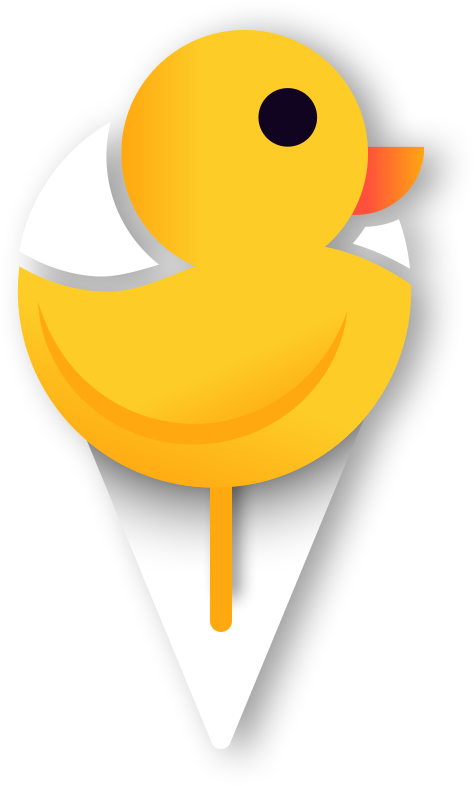
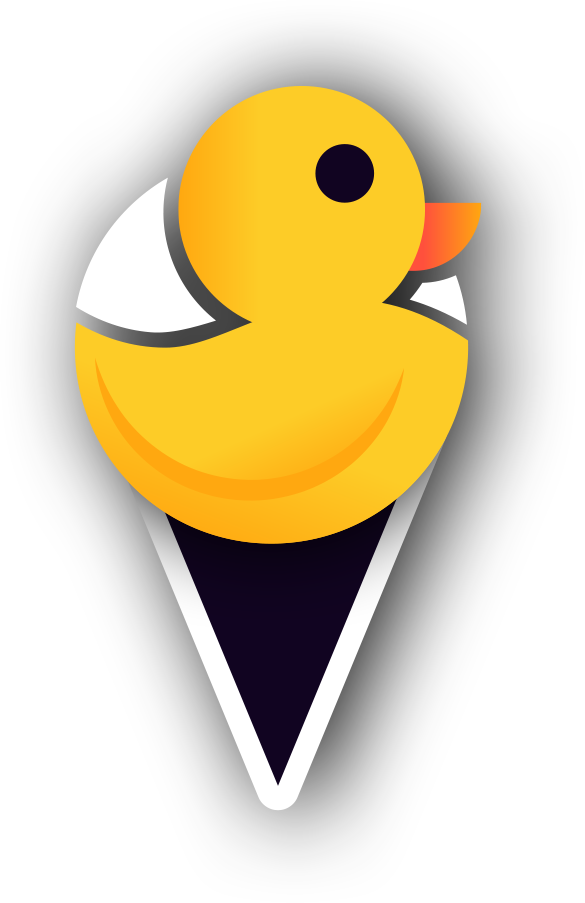
plein de trucs

Changed region(s): [[0.0295, 0.0305, 0.9451, 0.9466], [0.5316, 0.3969, 0.7384, 0.5496]]

diff --git a/app/assets/stylesheets/shops/_show.scss b/app/assets/stylesheets/shops/_show.scss
@@ -1,12 +1,30 @@
-.shop-show-container {
+.shop-show-search-box{
+  animation: fadeInLeft;
+  animation-duration: 0.5s;
+  .shop-show-box-title{
 
-  @include box;
+  }
 
+  .input-search{
+    margin-top: 10px;
+  }
 
-  padding: 1em;
+  .search-bar-btn{
+    margin-top: 9px;
+  }
 }
 
+.shop-show-container {
+  @include box;
+  padding: 1em;
+
+}
+
+
 .card-category {
+  animation: fadeInRight;
+  animation-duration: 0.5s;
+  animation-delay: 0.5s;
 
   border-radius: $border-radius;
   box-shadow: $btn-shadow;
@@ -32,33 +50,7 @@
   }
 
 
-  .button-box{
-  display: flex;
-  justify-content: center;
-  margin-top: 1em;
 
-    .shop-button {
-      width: 80%;
-      height: 60px;
-      margin-bottom: 30px;
-      background-color: $secondary-color;
-      border-radius: 2em;
-      box-shadow: 0px 10px 15px -3px rgba(0,0,0,0.4);
-      @include secondary-gradient-background();
-      font-weight: 700;
-      font-size: 1.3em;
-      color: white;
-      display: flex;
-      justify-content: center;
-      align-items: center;
-
-      &:hover{
-        outline: 2px solid $secondary-color;
-        color: $secondary-color;
-        background: $white-color;
-      }
-    }
-  }
 
   #see-all{
     color: $line-color;
@@ -91,14 +83,14 @@
   margin-bottom: 6px;
 
   img {
-    width: 40px;
-    border: 6px solid white;
-    border-radius: 50%;
+    width: 20px;
+
   }
 
   span {
     font-weight: 700;
     font-size: 1.3em;
+    margin-left: 6px;
 
   }
 
@@ -115,3 +107,32 @@
   margin-top: 0;
   margin-bottom: 6px;
 }
+
+
+.button-box{
+  display: flex;
+  justify-content: center;
+  margin-top: 1em;
+
+    .shop-button {
+      width: 80%;
+      height: 60px;
+      margin-bottom: 30px;
+      background-color: $secondary-color;
+      border-radius: 2em;
+      box-shadow: 0px 10px 15px -3px rgba(0,0,0,0.4);
+      @include secondary-gradient-background();
+      font-weight: 700;
+      font-size: 1.3em;
+      color: white;
+      display: flex;
+      justify-content: center;
+      align-items: center;
+
+      &:hover{
+        outline: 2px solid $secondary-color;
+        color: $secondary-color;
+        background: $white-color;
+      }
+    }
+  }

diff --git a/app/assets/stylesheets/shops/_index.scss b/app/assets/stylesheets/shops/_index.scss
@@ -1,3 +1,6 @@
+
+
+
 canvas{
   height: 300px;
   border-radius: 2em;
@@ -6,9 +9,9 @@ canvas{
 }
 
 .duck-pin-card-shop-index{
-width: 30px;
-border: 4px solid white;
-border-radius: 50px;
+width: 20px;
+height: 20px;
+margin-right: 4px;
 }
 
 h3{
@@ -22,13 +25,21 @@ h3{
   background-color: white;
   @include box;
   box-shadow: 0px 6px 6px -3px rgba(0,0,0,0.1);
-
+  animation: fadeInLeft;
+  animation-duration: 0.5s;
+  animation-delay: 0.7s;
   h3, p, i{
     // color: black;
+  }
+
+  &:hover{
+
   }
 }
 
 .active {
+  animation: tada;
+  animation-duration: 1s;
   @include secondary-gradient-background;
   // margin-top: -32px;
   margin-top: 6px;
@@ -64,7 +75,7 @@ h3{
 
     i{
       color: rgb(255, 255, 255);
-      margin-left: 16px;
+      margin-left: 4px;
       margin-right: 4px;
     }
   }
@@ -95,7 +106,7 @@ h3{
 
   i{
     color: $primary-color;
-    margin-left: 16px;
+    margin-left: 4px;
     margin-right: 4px;
   }
 

diff --git a/app/assets/stylesheets/components/_map.scss b/app/assets/stylesheets/components/_map.scss
@@ -37,7 +37,4 @@
 
 .pin-img{
   width: 50px;
-  border-radius: 50%;
-  border: solid 6px white;
-  box-shadow: 0px 0px 11px 0px rgba(0,0,0,0.5);
 }

diff --git a/app/assets/stylesheets/products/_index.scss b/app/assets/stylesheets/products/_index.scss
@@ -114,3 +114,7 @@
     margin-right: 0.3em;
   }
 }
+
+.search-bar-box{
+  margin-top: -32px;
+}
